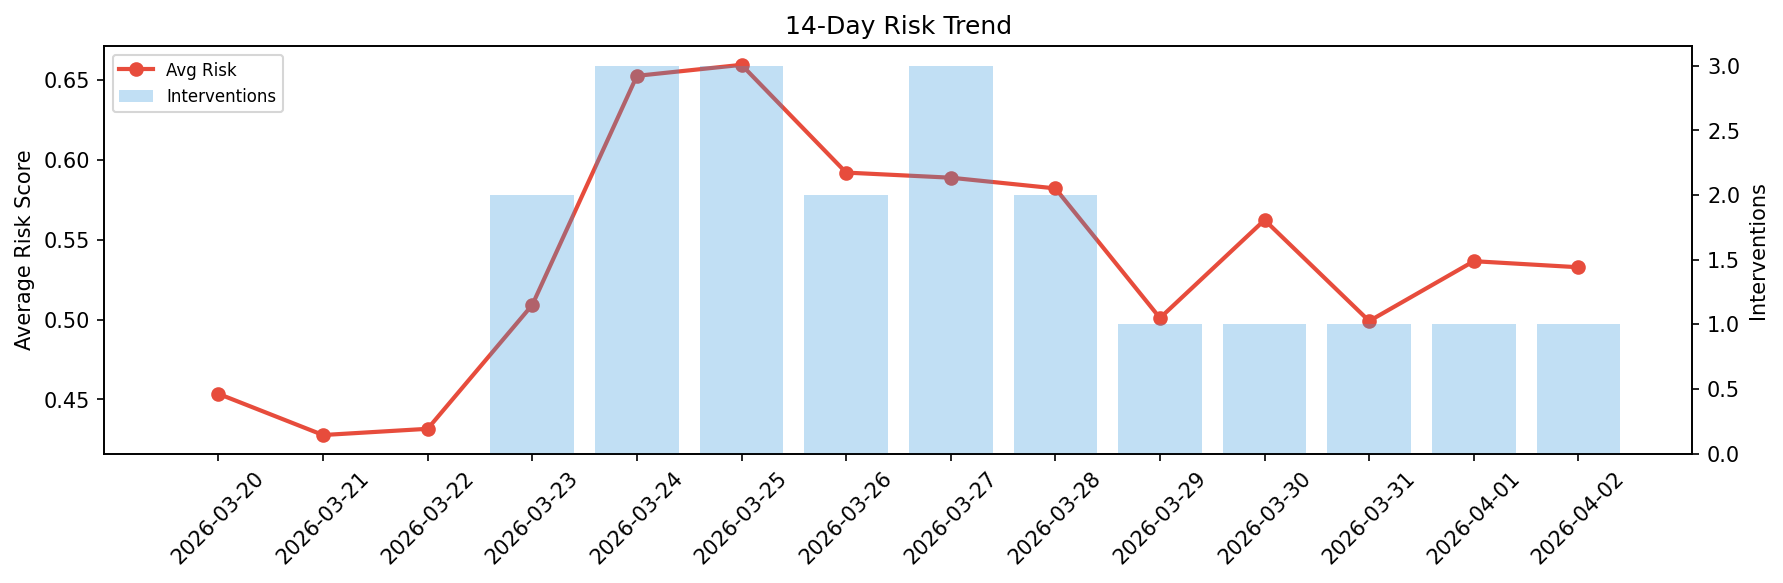
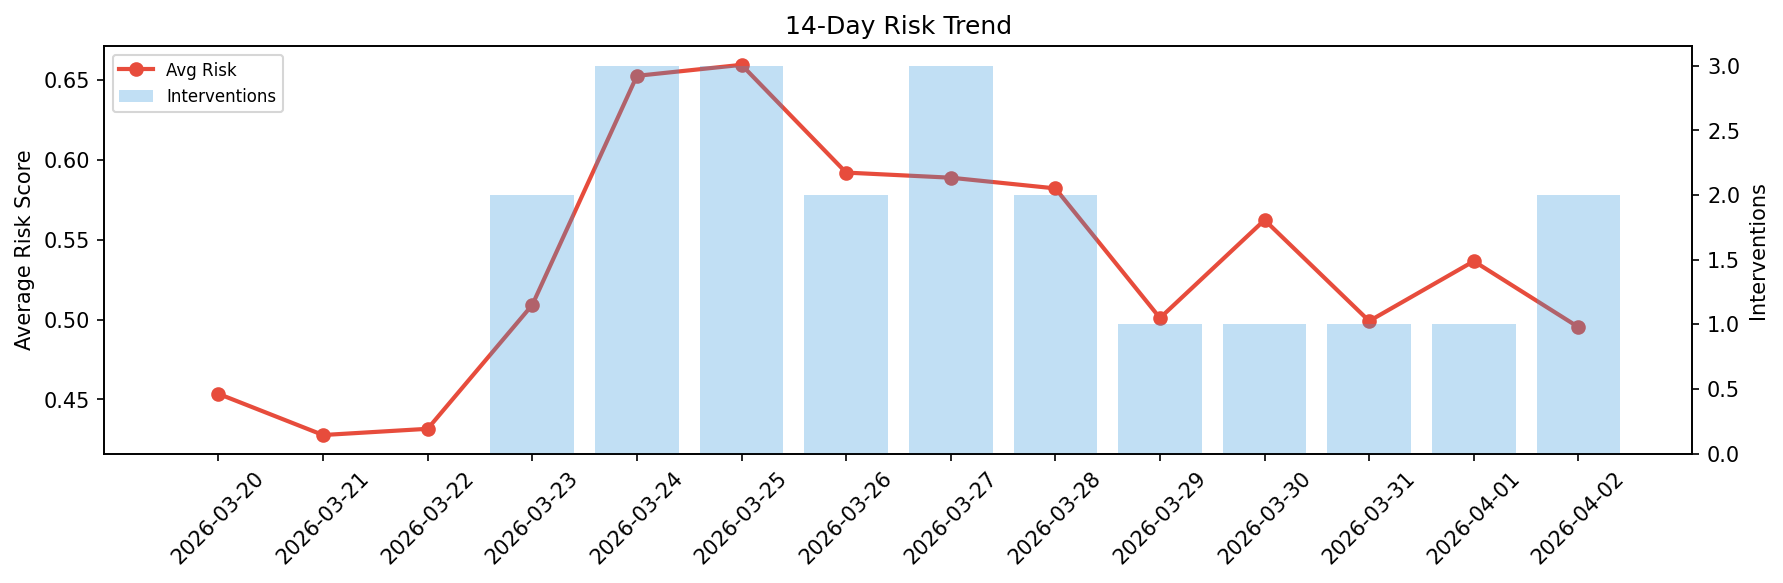
agent-improvement: daily cycle 2026-04-02T20:53

Changed region(s): [[0.8329, 0.3087, 0.9254, 0.5866]]

diff --git a/logs/2026-04-02.md b/logs/2026-04-02.md
@@ -1,6 +1,6 @@
 # Agent Improvement Report — 2026-04-02
 
-**Cycle ID:** `7ac19968` | **Avg Risk:** 0.5328 | **Interventions:** 1/4
+**Cycle ID:** `641740c4` | **Avg Risk:** 0.4953 | **Interventions:** 2/4
 
 ![Dashboard](2026-04-02_dashboard.png)
 
@@ -10,18 +10,18 @@
 
 | Domain | Risk Score | Decision | Alerts |
 |--------|-----------|----------|--------|
-| code_review | 0.4491 | monitor | none |
-| incident_response | 0.5484 | monitor | severity |
-| data_pipeline | 0.5209 | monitor | schema_drift |
-| deployment | 0.6126 | intervene | canary_error, latency_p99 |
+| code_review | 0.147 | monitor | none |
+| incident_response | 0.4747 | monitor | blast_radius |
+| data_pipeline | 0.7075 | intervene | volume_anomaly |
+| deployment | 0.652 | intervene | canary_error, latency_p99 |
 
 ## Delta vs Yesterday
 
 | Domain | Today | Yesterday | Change |
 |--------|-------|-----------|--------|
-| code_review | 0.4491 | 0.3636 | 📈 23.5% |
-| incident_response | 0.5484 | 0.5102 | 📈 7.5% |
-| data_pipeline | 0.5209 | 0.5632 | 📉 -7.5% |
-| deployment | 0.6126 | 0.7096 | 📉 -13.7% |
+| code_review | 0.147 | 0.3636 | 📉 -59.6% |
+| incident_response | 0.4747 | 0.5102 | 📉 -7.0% |
+| data_pipeline | 0.7075 | 0.5632 | 📈 25.6% |
+| deployment | 0.652 | 0.7096 | 📉 -8.1% |
 
 **Refinement:** `{'adjustment': 'tighten_thresholds', 'trend': 'degrading', 'window': 4}`
